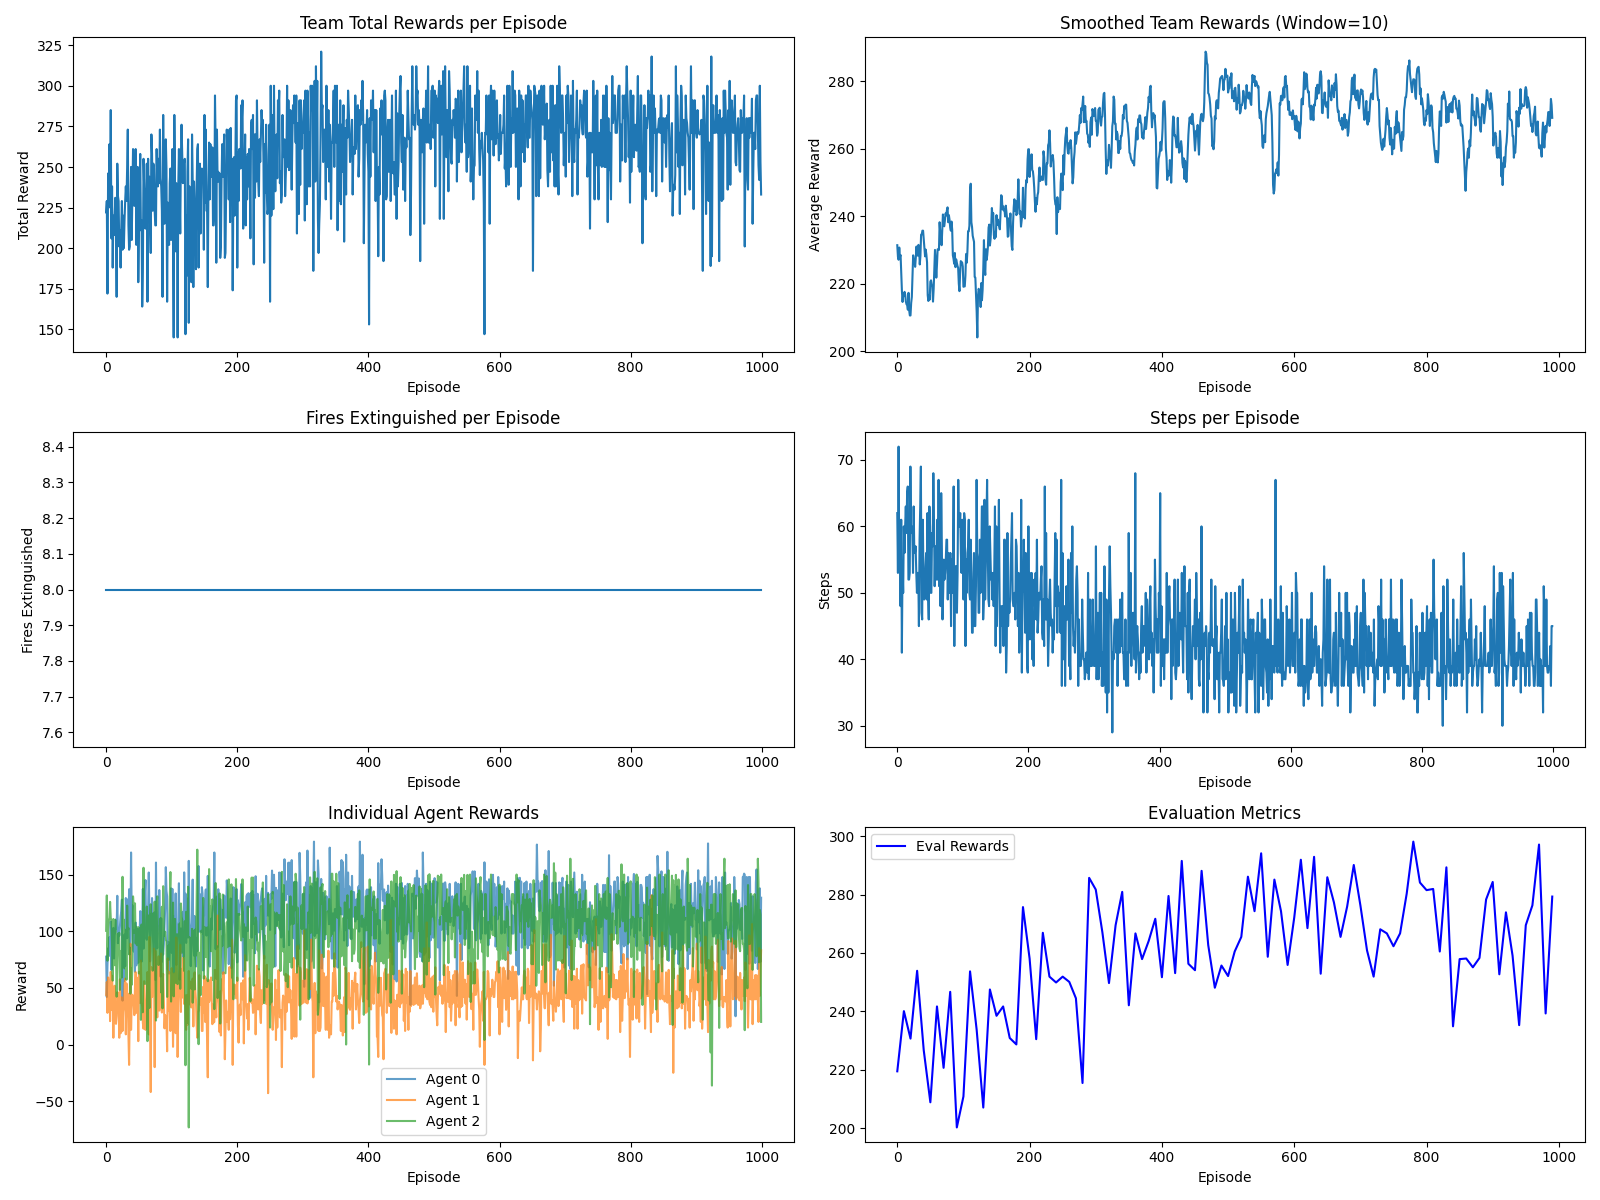
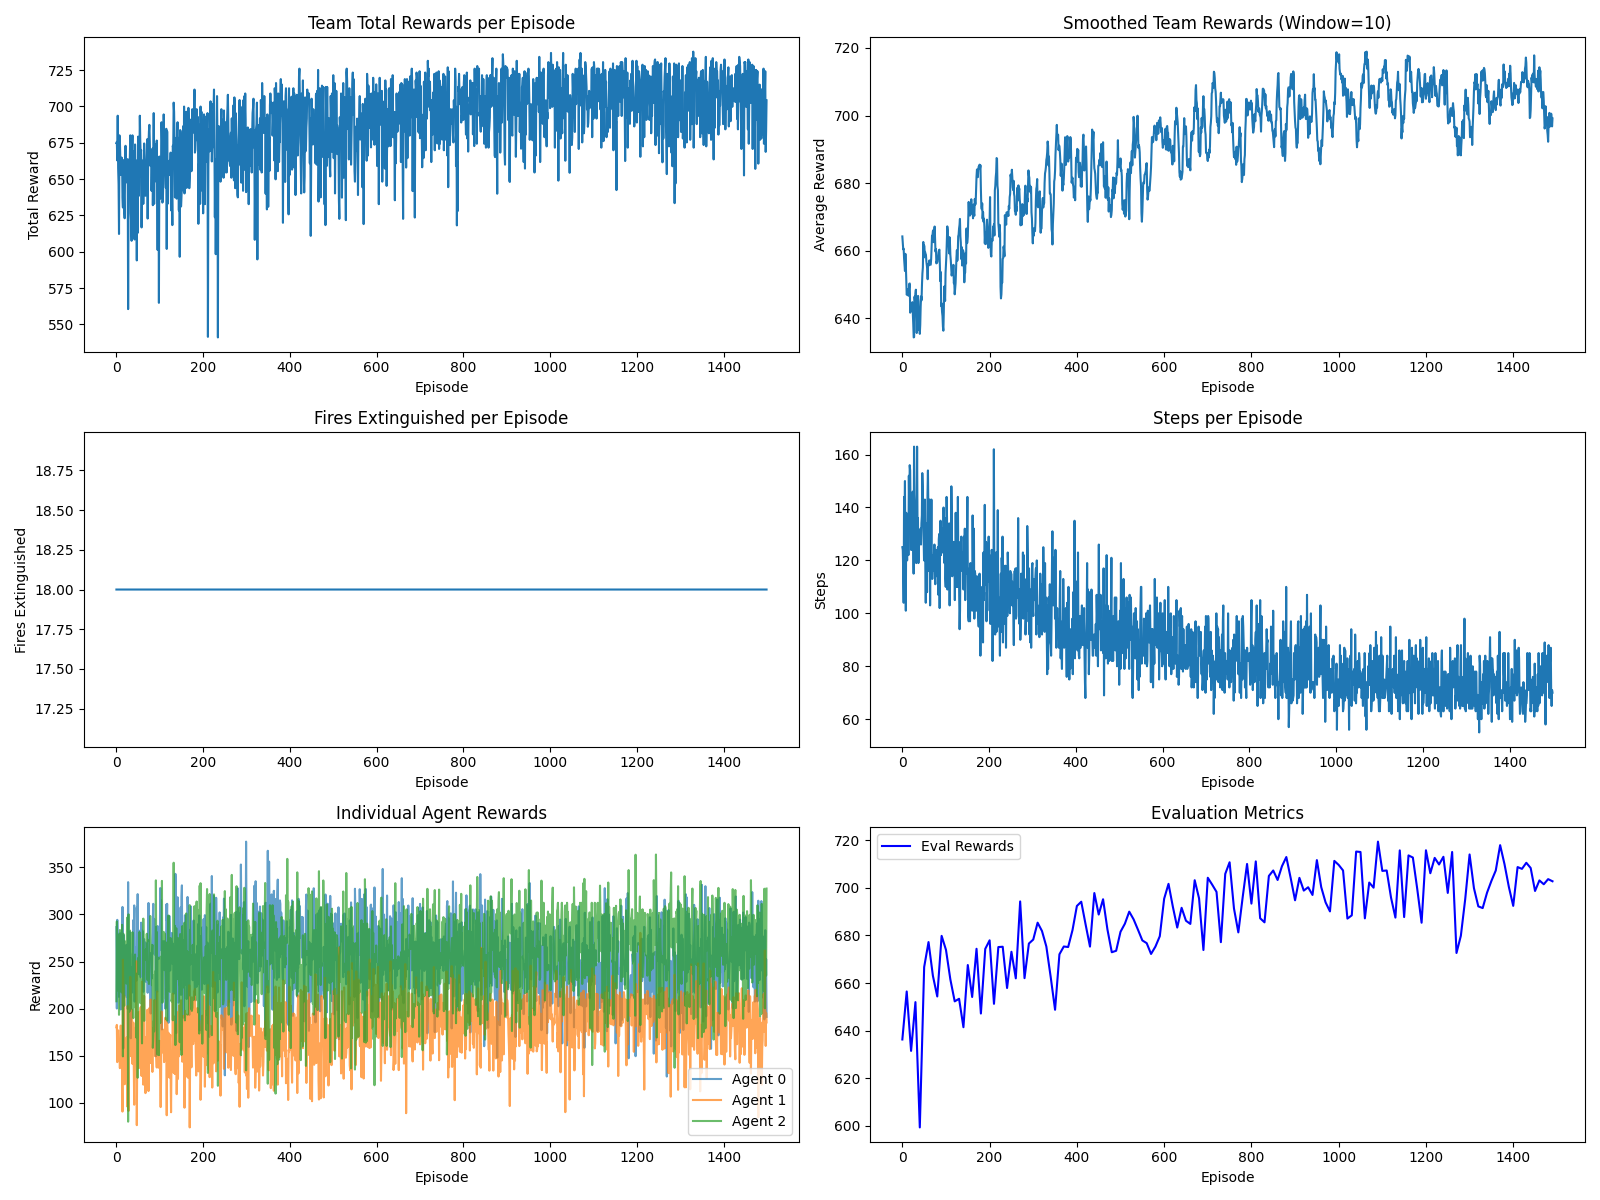
No se pueden transitar por nodos de incendio en activo

diff --git a/environment.py b/environment.py
@@ -289,10 +289,7 @@ class FirefightingEnv(gym.Env):
                     else:
                         # Check if current agent can arrive faster than the slowest agent already headed there
                         # Create a temporary subgraph for path finding
-                        temp_graph = self.graph.copy()
-                        for u, v, data in list(temp_graph.edges(data=True)):
-                            if not self.can_transit(u, v, agent_id):
-                                temp_graph.remove_edge(u, v)
+                        temp_graph = self.create_subgraph(fire_node, agent_id)
                         try:
                             # Calculate time for current agent to reach fire
                             path = nx.shortest_path(temp_graph, source=self.agent_positions[agent_id], 
@@ -374,24 +371,53 @@ class FirefightingEnv(gym.Env):
             return False
         return True
     
-    def node_is_reachable(self, source_node, target_node, agent):
-        """Check if a node is reachable from the agent's current position."""
+    def create_subgraph(self, target_node, agent):
+        """Create a subgraph for pathfinding."""
         # Create a subgraph with the base edge occupancy where the agent can move
         subgraph = self.graph.copy()
+
+        # Guardar la posición actual del agente para evitar quedar atrapado
+        agent_current_position = self.agent_positions[agent]
+        # Eliminar aristas que conectan incendios activos entre sí
+        active_fire_nodes = [node for node in self.fire_nodes 
+                             if node in self.fires_remaining and self.fires_remaining[node] > 0]
+        for fire_node1 in active_fire_nodes:
+            for fire_node2 in active_fire_nodes:
+                if fire_node1 != fire_node2 and subgraph.has_edge(fire_node1, fire_node2):
+                    subgraph.remove_edge(fire_node1, fire_node2)
+        # Eliminar conexiones de nodos de incendio activo (excepto casos especiales)
+        for fire_node in active_fire_nodes:
+            # Skip the target node (siempre permitir ir hacia el destino)
+            if fire_node == target_node:
+                # Solo mantener conexiones al destino desde nodos no-incendio
+                for neighbor in list(subgraph.neighbors(fire_node)):
+                    if neighbor in active_fire_nodes and neighbor != agent_current_position:
+                        subgraph.remove_edge(fire_node, neighbor)
+                continue
+            # No eliminar conexiones si el agente está actualmente en este nodo
+            if fire_node == agent_current_position:
+                # Permitir salir pero solo hacia nodos que no son incendios
+                for neighbor in list(subgraph.neighbors(fire_node)):
+                    if neighbor in active_fire_nodes and neighbor != target_node:
+                        subgraph.remove_edge(fire_node, neighbor)
+                continue
+            # Eliminar todas las conexiones de este incendio activo
+            for neighbor in list(subgraph.neighbors(fire_node)):
+                if subgraph.has_edge(fire_node, neighbor):
+                    subgraph.remove_edge(fire_node, neighbor)
+
         # Remove edges with lower width than the agent's vehicle width
         for edge_tuple, agents in self.edge_occupancy.items():
-            # Check if the edge exists in the graph before accessing
-            if edge_tuple in self.graph.edges():
-                if self.vehicle_types[agent]['width'] > self.graph[edge_tuple[0]][edge_tuple[1]]['width']:
-                    # Edge is too narrow for this vehicle
-                    if subgraph.has_edge(edge_tuple[0], edge_tuple[1]):
-                        subgraph.remove_edge(edge_tuple[0], edge_tuple[1])
+            if self.vehicle_types[agent]['width'] > self.graph[edge_tuple[0]][edge_tuple[1]]['width']:
+                if subgraph.has_edge(edge_tuple[0], edge_tuple[1]):
+                    subgraph.remove_edge(edge_tuple[0], edge_tuple[1])
 
+        return subgraph
+    
+    def node_is_reachable(self, source_node, target_node, agent):
+        """Check if a node is reachable from the agent's current position."""
         # Check if the target node is reachable from the source node
-        try:
-            return nx.has_path(subgraph, source=source_node, target=target_node)
-        except nx.NetworkXNoPath:
-            return False
+        return nx.has_path(self.create_subgraph(target_node, agent), source=source_node, target=target_node)
 
     def update_transit(self, agent, target_node):
         # Reducir tiempo restante
@@ -430,11 +456,7 @@ class FirefightingEnv(gym.Env):
                 self.agent_transit_source[agent] = self.agent_transit_target[agent]
                 new_target_node = self.final_destinations[agent]
                 # Create a temporary subgraph excluding edges that are too narrow
-                temp_graph = self.graph.copy()
-                for u, v, data in list(temp_graph.edges(data=True)):
-                    # Skip if edge is too narrow for this agent's vehicle
-                    if not self.can_transit(u, v, agent):
-                        temp_graph.remove_edge(u, v)
+                temp_graph = self.create_subgraph(new_target_node, agent)
                 try:
                     path = nx.shortest_path(temp_graph, source=self.agent_transit_source[agent], target=new_target_node, weight='transit_time')
                     self.agent_transit_time_remaining[agent] = self.graph[self.agent_transit_source[agent]][path[1]]['transit_time']
@@ -461,11 +483,7 @@ class FirefightingEnv(gym.Env):
         # Iniciar un nuevo tránsito
         current_node = self.agent_positions[agent_id]
         # Create a temporary subgraph excluding edges that are too narrow
-        temp_graph = self.graph.copy()
-        for u, v, data in list(temp_graph.edges(data=True)):
-            # Skip if edge is too narrow for this agent's vehicle
-            if not self.can_transit(u, v, agent_id):
-                temp_graph.remove_edge(u, v)
+        temp_graph = self.create_subgraph(target_node, agent_id)
         # Try to find path in the filtered graph
         try:
             path = nx.shortest_path(temp_graph, source=current_node, target=target_node, weight='transit_time')

diff --git a/main.py b/main.py
@@ -308,11 +308,11 @@ def plot_agent_cooperation(metrics, num_agents):
     plt.show()
 
 if __name__ == "__main__":
-    steps = 150  # Maximum steps per episode
+    steps = 200  # Maximum steps per episode
     num_agents = 3  # Number of firefighting agents
     
     # Create environment with a random graph
-    graph = generate_graph(fires=8, tanks=3)
+    graph = generate_graph(fires=18, tanks=4)
     # Visualize the graph
     plt_graph = visualize_graph(graph)
     plt_graph.savefig('environment_graph.png')
@@ -346,7 +346,7 @@ if __name__ == "__main__":
     metrics = train_multi_agent(
         env=env, 
         agents=agents, 
-        num_episodes=1000, 
+        num_episodes=1500, 
         max_steps=steps,
         eval_freq=10, 
         render_training=False
